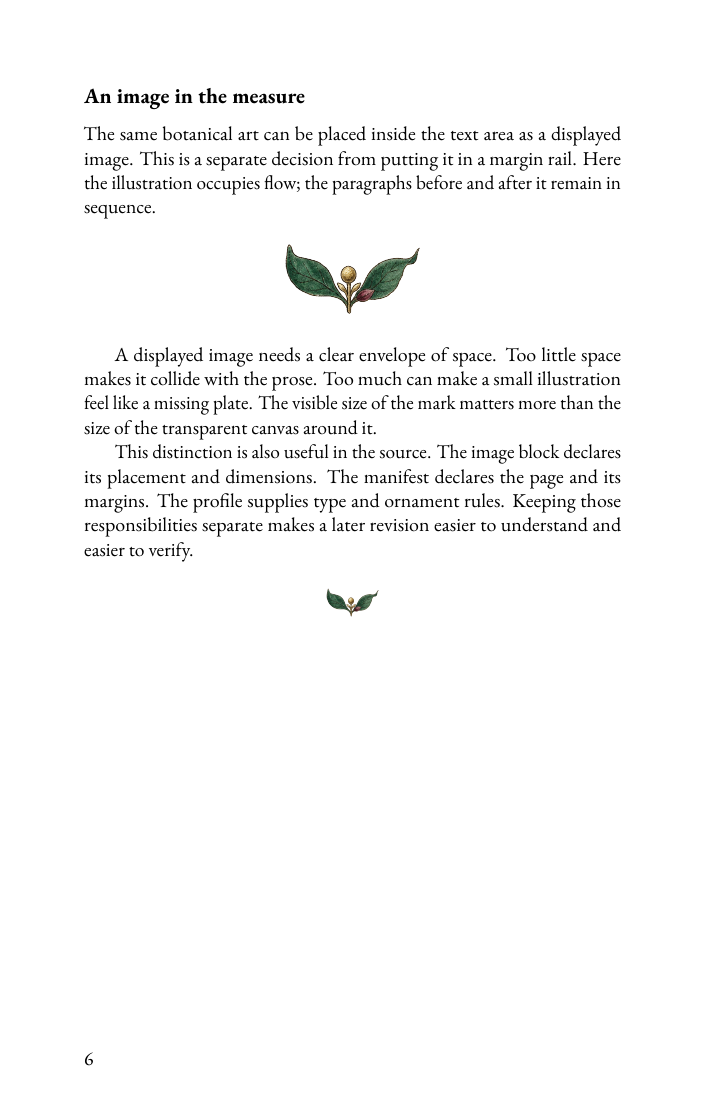
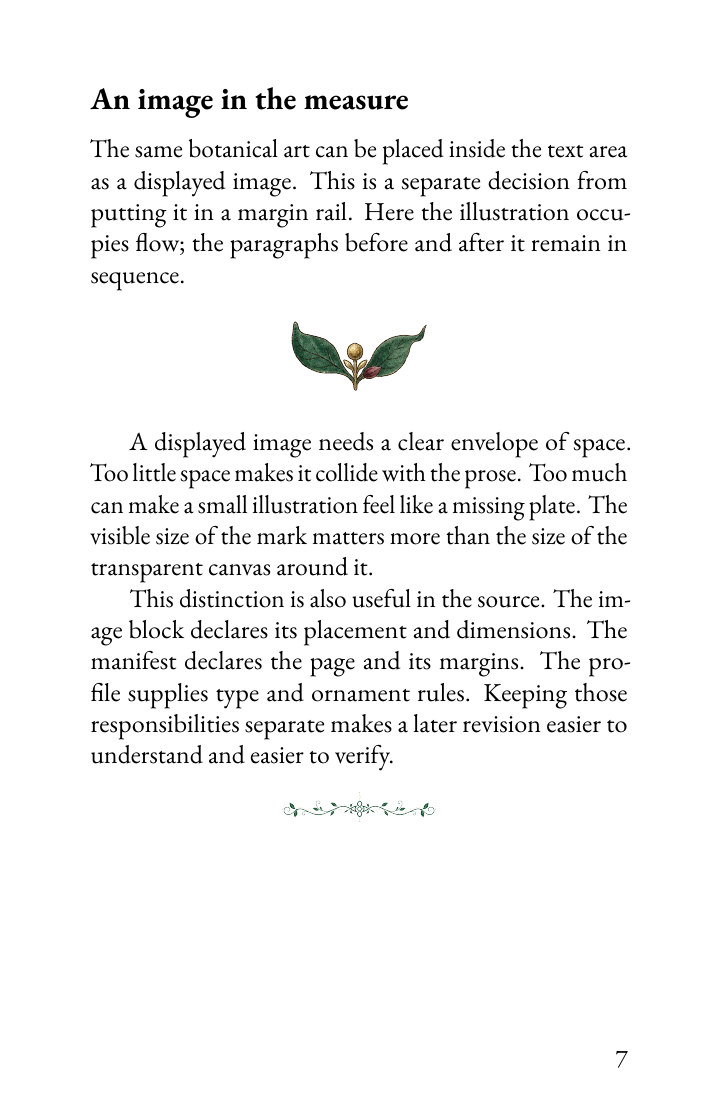
Expand the illuminated example with larger type and book apparatus

Changed region(s): [[0.1236, 0.0618, 0.8961, 0.7418], [0.5871, 0.7109, 0.618, 0.7418]]

diff --git a/examples/illuminated-book/verify.py b/examples/illuminated-book/verify.py
@@ -1,10 +1,15 @@
 #!/usr/bin/env python3
-"""Check the rendered example's evidence, source closure and output identity."""
+"""Check the example's evidence, output identity and key page-level features."""
 from __future__ import annotations
 
 import hashlib
 import json
 from pathlib import Path
+import re
+import subprocess
+import xml.etree.ElementTree as ET
+
+EXPECTED_PAGES = 11
 
 
 def main() -> None:
@@ -18,31 +23,57 @@ def main() -> None:
     assert evidence["render_metadata"]["success"] is True
     assert evidence["validation"]["status"] == "passed"
     assert evidence["warnings"] == []
-    assert evidence["output"]["pdf_pages"] == 8
+    assert evidence["output"]["pdf_pages"] == EXPECTED_PAGES
     digest = hashlib.sha256(pdf.read_bytes()).hexdigest()
     assert evidence["output"]["pdf_sha256"] == digest
     assert boundary["target_legacy_profile_tree_mutated"] is False
     assert boundary["reads_legacy_profile_tree"] is False
     assert boundary["delivery_mode"] == "bound"
     assert boundary["delivery_duplex"] is True
-    assert boundary["delivery_illumination_marks"]["marks_inserted"] == 3
+    illumination = boundary["delivery_illumination"]
+    assert illumination["placement"] == "explicit"
+    assert len(illumination["assets"]) == 3
     assert Path(boundary["profile_package"]).resolve() == example / "profiles/illuminated-example"
+    geometry = Path(evidence["render_metadata"]["page_geometry_defaults"]).read_text()
+    assert "- 14pt" in geometry
     for path in evidence["render_metadata"]["defaults_stack"]:
         assert Path(path).resolve().is_relative_to(root)
-    for resource in evidence["resource_resolution"]["resolved_resources"]:
+    resources = evidence["resource_resolution"]["resolved_resources"]
+    for resource in resources:
         assert Path(resource["winner"]).resolve().is_relative_to(root)
+    winners = {Path(resource["winner"]).name for resource in resources}
+    assert {"orchid-rail.png", "wisteria-rail.png", "lupine-rail.png"} <= winners
     kinds = {figure["kind"] for figure in evidence["figure_inventory"]}
     assert {"image_initial", "layout_image"} <= kinds
     slots = evidence["render_metadata"]["ornaments"]["slots"]
-    assert slots["breath"]["art"] == 1 and slots["tailpiece"]["art"] == 1
+    assert set(slots) == {"whisper", "breath", "hinge", "tailpiece"}
+    assert all(slot["art"] == 1 for slot in slots.values())
     preflight = evidence["output"]["bindery_preflight"]
     assert preflight["fonts"]["all_embedded"] is True
     assert preflight["safe_area_guide"]["fit_warnings"] == []
     text = (output / "illuminated-book.txt").read_text()
     for marker in ("of-image", "of-initial", "OFOuterRail", "OFOrnament"):
         assert marker not in text, f"Source directive leaked: {marker}"
-    print(json.dumps({"status": "verified", "pages": 8, "sha256": digest,
-                      "warnings": evidence["warnings"],
+    pages = [re.sub(r"\s+", " ", page).strip() for page in text.split("\f") if page.strip()]
+    assert len(pages) == EXPECTED_PAGES
+    assert "Contents" in pages[2]
+    for heading in ("Four kinds of ornament", "Glossary"):
+        assert heading in pages[2]
+    assert pages[8].startswith("Four kinds of ornament")
+    assert pages[10].startswith("Glossary")
+    # Real footnotes are in the foot area, not merely mentioned in body prose.
+    bbox = subprocess.check_output(["pdftotext", "-bbox", str(pdf), "-"], text=True)
+    xml = ET.fromstring(bbox)
+    page_nodes = [node for node in xml.iter() if node.tag.endswith("}page")]
+    for page_index, word in ((3, "means"), (4, "Odd"), (8, "Definitions:")):
+        page = page_nodes[page_index]
+        height = float(page.attrib["height"])
+        assert any(word in (node.text or "") and float(node.attrib["yMin"]) > height * 0.8
+                   for node in page.iter() if node.tag.endswith("}word")), (page_index + 1, word)
+    print(json.dumps({"status": "verified", "pages": EXPECTED_PAGES,
+                      "body_font_pt": 14, "ornament_slots": sorted(slots),
+                      "rail_art_count": 3, "footnotes_at_page_foot": [4, 5, 9],
+                      "sha256": digest, "warnings": evidence["warnings"],
                       "prototype_ready": preflight["readiness"]["prototype_ready"],
                       "press_ready": preflight["readiness"]["vendor_independent_press_ready"],
                       "press_issues": preflight["readiness"]["blocking_press_ready_issues"]}, indent=2))

diff --git a/examples/illuminated-book/profiles/illuminated-example/preamble.tex b/examples/illuminated-book/profiles/illuminated-example/preamble.tex
@@ -1,0 +1,2 @@
+% Keep contents links and footnote links live without printed border boxes.
+\hypersetup{hidelinks}

diff --git a/examples/illuminated-book/book.md b/examples/illuminated-book/book.md
@@ -34,18 +34,24 @@ A page is more than a container. It is an agreement between the length of a line
 
 ```{=latex}
 \clearpage
+\tableofcontents*
+\clearpage
 ```
 
 # Chapter One: The page
 
+```{=latex}
+\OFOuterRail{assets/orchid-rail.png}
+```
+
 ```of-initial
 path: assets/initial-t.png
-width: 0.55in
+width: 0.62in
 lines: 4
 gap: 0.07in
 align: top
 ```
-he page begins with a measure. A line should carry a thought far enough to gather momentum, but not so far that the eye loses its way on the return. That judgment belongs to the relationship between type size, leading and the width of the text, rather than to any one number in isolation.
+he page begins with a measure.[^measure] A line should carry a thought far enough to gather momentum, but not so far that the eye loses its way on the return. That judgment belongs to the relationship between type size, leading and the width of the text, rather than to any one number in isolation.
 
 An illuminated initial changes the opening without replacing the paragraph. The capital is an image; the words beside it remain text. The space reserved around the image must be large enough for its frame, yet small enough that the sentence still reads as one movement.
 
@@ -62,9 +68,13 @@ The best test is ordinary reading. If the reader notices the apparatus before th
 
 # Chapter Two: The margin
 
+```{=latex}
+\OFOuterRail{assets/wisteria-rail.png}
+```
+
 The margin is not leftover space. It separates the text from the edge of the object, and it can carry a second, quieter channel of information. A note, a folio or a botanical rail can live there without narrowing every sentence into a negotiation with an illustration.
 
-In this example, a purple orchid marks the chapter opening. Its placement belongs to the delivery manifest: the outer edge changes sides when the page changes parity. The source does not need to choose a permanent left or right margin.
+In this example, a purple wisteria marks this chapter opening; the other chapters use orchid and lupine art. Its placement belongs to the delivery manifest: the outer edge changes sides when the page changes parity.[^parity] The source does not need to choose a permanent left or right margin.
 
 ::: {.breath}
 :::
@@ -83,7 +93,7 @@ Paragraphs make a second measure within the page. An indentation can mark a new 
 
 The same is true of headings. A heading belongs to the words that follow it, not to the empty space at the bottom of the preceding page. Keeping that relationship intact is a layout responsibility. It should not depend on adding blank lines until a particular proof happens to look right.
 
-::: {.breath}
+::: {.whisper}
 :::
 
 A book also has a rhythm across its openings. The reader sees a left page and a right page together. Their margins need not be identical, but their relationship should feel deliberate. The binding takes space from the inner edge; the outer edge gives the hand somewhere to rest.
@@ -119,11 +129,15 @@ This distinction is also useful in the source. The image block declares its plac
 
 # Chapter Three: The object
 
+```{=latex}
+\OFOuterRail{assets/lupine-rail.png}
+```
+
 A rendered file is not ready merely because it exists. Its pages need the right dimensions. Its fonts must be embedded. Its images must be present, and its text must remain free of working paths, source directives and other construction debris.
 
 Evidence helps make those questions repeatable. A render records its inputs, warnings, page count and output hash. These records identify what was built; they do not decide whether the typography is good. A clean report and a poor page can coexist.
 
-::: {.breath}
+::: {.hinge}
 :::
 
 That is why the final pass returns to the page itself. Look at an opening. Follow a sentence around an initial. Check the outer margins on both parities. Read the bottom line before turning the page. Notice whether an ornament has become stranded where a page break already supplies the pause.
@@ -137,15 +151,76 @@ The object is complete only when the declared structure and the visible result a
 \clearpage
 ```
 
-## Making this example
+# Four kinds of ornament
 
-This eight-page specimen is intentionally small. It demonstrates a title page, a framed image initial, a displayed image, chapter-opening illumination rails and engine-native breath and tailpiece ornaments.
+These definitions follow the engine's ornament-slot contract.[^slots] Each mark below is a live example of its named slot.
+
+**Whisper** is the lightest pause between passages: here, a fine gold double scroll.
+
+::: {.whisper}
+:::
+
+**Breath** is a stronger pause between passages: here, two green leaves and a gold bud.
+
+::: {.breath}
+:::
+
+**Hinge** is the strongest of these three pauses: here, curling vines with blossom dots. Its height and surrounding gap exceed the breath's.
+
+::: {.hinge}
+:::
+
+The engine drops these pauses at a page top or foot, where a page break already supplies the interval. A **tailpiece** instead closes a section. It may remain at the page foot; only the first structural ornament there is kept. This vine knot closes the specimen.
+
+::: {.tailpiece}
+:::
+
+```{=latex}
+\clearpage
+```
+
+# Making this example
+
+This specimen is intentionally small. It demonstrates a title page, a framed image initial, a displayed image, chapter-opening illumination rails and engine-native whisper, breath, hinge and tailpiece ornaments.
 
 The example profile inherits the neutral document spine. Its ornament slots use the public engine's page-position law: a breath does not survive at a page top or foot, where a page break already performs its work. A tailpiece is allowed to close a section.
 
-The manifest owns the half-letter page size, mirrored bound margins and outer folios. It also owns the chapter-opening rails. The companion render script isolates profile discovery so that only this repository's demonstration profile is available. It does not require a separate profile checkout.
+The manifest owns the half-letter page size, mirrored bound margins and outer folios. It also owns the illumination rail geometry; explicit source marks select the orchid, wisteria and lupine art at chapter openings. The companion render script isolates profile discovery so that only this repository's demonstration profile is available. It does not require a separate profile checkout.
 
 The accompanying asset inventory records where each decorative file came from and how it was prepared. No personal manuscript text, photographs, keepsakes or location imagery are included. The text is original to this example; it is not a quotation or a claim of public-domain status.
 
 ::: {.tailpiece}
 :::
+
+
+```{=latex}
+\clearpage
+```
+
+# Glossary
+
+**Breath.** A pause between passages, stronger than a whisper and lighter than a hinge. See *Four kinds of ornament* for a live specimen.
+
+**Folio.** The printed page number. Here it sits at the outer foot, alternating sides across an opening.
+
+**Hinge.** The strongest of the three between-passage pauses in this example. It is not a new chapter.
+
+**Illumination rail.** A reserved margin lane for decorative art. Here its geometry belongs to the delivery manifest; source marks choose one of three botanical images.
+
+**Imposition.** Arranging reading-order pages onto sheet sides for folding and binding. It is not requested for this specimen.
+
+**Measure.** The width of the prose column, considered in relation to type size and line spacing.
+
+**Register rail.** A profile-defined margin mark following a declared voice or register beside marked text. This specimen demonstrates decorative illumination, not that automatic system.
+
+**Signature.** A group of folded sheets assembled as a binding unit. Page counts and padding depend on the chosen production plan.
+
+**Tailpiece.** An ornament after a section's final block. It closes rather than interrupts.
+
+**Whisper.** The lightest between-passage pause. Its height and surrounding gap are smaller than a breath's.
+
+[^measure]: Here measure means the width of the prose column, not a unit of length or the paper width.
+
+[^parity]: Odd pages use the right outer margin; even pages use the left. This follows the typeset page counter.
+
+[^slots]: Definitions: the repository's ornament-slot contract, section 1. The public engine's slot table supplies the page-top and page-foot defaults.

diff --git a/examples/illuminated-book/README.md b/examples/illuminated-book/README.md
@@ -1,6 +1,6 @@
 # The Shape of a Page
 
-An eight-page, half-letter specimen written for this repository. It demonstrates `of-initial`, `of-image`, bound illumination rails and public engine-native breath/tailpiece ornament slots. The title page is authored in the manuscript rather than generated from metadata.
+An eleven-page, half-letter specimen written for this repository, set in 14pt EB Garamond. It demonstrates a title page, table of contents, `of-initial`, `of-image`, three outer illumination designs, the four public engine-native ornament slots, three real footnotes and a glossary. The original prose and page breaks are preserved; the contents, ornament specimen and glossary add three pages to the first proof.
 
 ## Render
 
@@ -13,23 +13,33 @@ python examples/illuminated-book/verify.py
 
 The helper runs `python -m cli manifest` using `book.yaml`. It unsets `OF_PROFILE_PATH` and supplies temporary `HOME`, `XDG_CONFIG_HOME` and `XDG_CACHE_HOME` values. The temporary profile pointer contains only this example's `profiles/` directory. No external profile repository is needed or consulted. The helper does not install tools or fetch images.
 
-The resulting `generated/illuminated-book/illuminated-book.pdf` has eight pages at 5.5 × 8.5 inches. The adjacent `.evidence.json` records success, warnings, SHA-256, page count, resolved resources and boundary assertions. `verify.py` checks these against the local PDF. Review the actual pages too.
+The resulting `generated/illuminated-book/illuminated-book.pdf` has eleven pages at 5.5 × 8.5 inches. The adjacent `.evidence.json` records success, warnings, SHA-256, page count, resolved resources and boundary assertions. `verify.py` checks these against the local PDF, confirms the contents/glossary and checks that footnote text lands at the page foot. Review the actual pages too.
 
 ## Files and ownership
 
-- `book.md` — original example text and explicit page breaks, image blocks and ornament markers. No external text source URL: this is newly written demonstration prose, not a public-domain excerpt.
-- `book.yaml` — source selection, page geometry, bound margins, outer folios and chapter-opening illumination rails. Chapter Two opens on an even page to demonstrate the left outer rail; Chapters One and Three demonstrate the right outer rail.
-- `profiles/illuminated-example/profile.yaml` — a small package extending `document-spine`, with breath and tailpiece slots consumed by the engine's `of_ornaments.lua` filter.
-- `profiles/illuminated-example/defaults.yaml` — EB Garamond/TeX Gyre font selection and paragraph defaults. Font files come from TeX Live, not this folder.
-- `profiles/illuminated-example/assets/` — two decorative botanical images borrowed from Codex 0 and a copy of the engine's existing framed T initial.
+- `book.md` — original example text, explicit page breaks, image blocks, four named ornament divs, Pandoc footnotes, a contents page and glossary. No external text source URL: this is newly written demonstration prose, not a public-domain excerpt. The authored `\tableofcontents*` follows the opening explanation; the template's automatic TOC is disabled to keep the title page first.
+- `book.yaml` — source selection, page geometry, bound margins, outer folios and explicit illumination geometry. Three source marks select orchid, wisteria and lupine art at the chapter openings; the engine owns the left/right outer placement. Chapters One and Three land on even pages, Chapter Two on an odd page.
+- `profiles/illuminated-example/profile.yaml` — a small package extending `document-spine`, with whisper, breath, hinge and tailpiece slots consumed by the engine's `of_ornaments.lua` filter.
+- `profiles/illuminated-example/defaults.yaml` — 14pt EB Garamond/TeX Gyre font selection and paragraph defaults. Font files come from TeX Live, not this folder.
+- `profiles/illuminated-example/preamble.tex` — keeps contents and footnote hyperlinks live without visible border boxes.
+- `profiles/illuminated-example/assets/` — seven decorative images borrowed from Codex 0 and a copy of the engine's existing framed T initial.
 - `assets.json` — source-relative provenance, transformations, byte sizes and source/output hashes for every image. It asserts no new license.
 - `render.py` / `verify.py` — isolated rendering and evidence checks.
 
-The leaf-and-bud image was cropped to its alpha bounds with 12 pixels of transparent padding. The orchid and T are byte-for-byte copies. Every selected image was visually reviewed: no people, keepsakes, location imagery, handwriting or personal manuscript text is included.
+The leaf-and-bud, hinge and vine-tailpiece images were cropped to their alpha bounds with 12 pixels of transparent padding. The remaining files are byte-for-byte copies. Every selected image was visually reviewed: no people, keepsakes, location imagery, handwriting or personal manuscript text is included. The gold whisper is decorative linework, not written words.
+
+## The four ornament slots
+
+The TOC-listed *Four kinds of ornament* page shows one live specimen of each slot. The definitions and boundary rules come from [`contracts/ORNAMENT_SLOTS_CONTRACT.md`](../../contracts/ORNAMENT_SLOTS_CONTRACT.md), `engine/ornaments.py` and `engine/latex/of_ornaments.tex`:
+
+- **Whisper**, **breath**, **hinge** are between-passage pauses in increasing height and surrounding gap. The engine drops them at page tops and feet.
+- **Tailpiece** closes a section after its final block. It is legal at the page foot; only the first structural ornament there is kept.
+
+Each slot has distinct Codex 0 art. They use the public engine, not the private Codex 0 composition filter.
 
 ## Limits and a current workaround
 
-- The visible orchids are **manifest-owned chapter-opening illumination**, not semantic register rails following a voice through a passage.
-- The public engine supports ornament slots without the private Codex 0 filter. Its current generic filter nevertheless errors on a slots-only profile because JSON null is treated as a rail object. This package declares an unused, empty `example-register` rail to avoid that path. There are no corresponding source divs and it draws nothing. The real visible rails remain entirely under `render.delivery`. No engine patch is included.
+- The visible botanical art is **explicit decorative illumination**, not semantic register rails following a voice through a passage. The public chapter-opener injector uses its first asset rather than rotating a list; explicit source marks choose three assets without changing engine code. `render.delivery` still owns the rail geometry, reserve space and parity.
+- The generic ornament filter currently errors on a slots-only profile because JSON null is treated as a rail object. This package declares an unused, empty `example-register` rail to avoid that path. No source div uses it, so it draws nothing. No engine patch is included.
 - Imposition is off. The output is a reading-order prototype proof: RGB images, no bleed, no claim of vendor-independent press readiness. Inspect the advisory preflight before physical production.
 - The full repository test suite still contains tests requiring non-bundled profiles/fonts and private fixtures. Run it and report the actual baseline rather than treating the example's success as a suite-wide result.

diff --git a/README.md b/README.md
@@ -4,15 +4,16 @@ Optical Foundry turns Markdown manuscripts and YAML render manifests into print-
 
 ## A small book, built from source
 
-[The Shape of a Page](examples/illuminated-book/) is an eight-page example with an illuminated initial, displayed imagery, mirrored outer-margin rails and section ornaments. Its text was written for the example; its botanical art comes from the Codex 0 decorative collection. Everything needed to render it is in this repository.
+[The Shape of a Page](examples/illuminated-book/) is an eleven-page example set in 14pt type, with an illuminated initial, displayed imagery, three botanical rail designs, four ornament slots, contents, footnotes and a glossary. Its text was written for the example; its decorative art comes from the Codex 0 collection. Everything needed to render it is in this repository.
 
 <p>
-  <img src="docs/images/illuminated-title.png" width="32%" alt="Rendered title page of The Shape of a Page, with a botanical ornament">
-  <img src="docs/images/illuminated-initial.png" width="32%" alt="Chapter opening with an image initial, a small ornament and a purple orchid in the right outer margin">
-  <img src="docs/images/illuminated-margin.png" width="32%" alt="An even page with the orchid rail mirrored to the left outer margin">
+  <img src="docs/images/illuminated-initial.png" width="48%" alt="Chapter opening with an image initial, breath ornament, left outer orchid rail and a footnote">
+  <img src="docs/images/illuminated-margin.png" width="48%" alt="Chapter opening with a right outer wisteria rail and a footnote">
 </p>
-
-![A rendered page showing an image in the text measure and a closing ornament](docs/images/illuminated-image.png)
+<p>
+  <img src="docs/images/illuminated-image.png" width="48%" alt="A displayed image in the text measure and a closing vine tailpiece">
+  <img src="docs/images/illuminated-ornaments.png" width="48%" alt="Four live, explained ornament specimens: whisper, breath, hinge and tailpiece">
+</p>
 
 ## What it does
 
@@ -29,7 +30,7 @@ Demo profiles ship here; other profiles live in a separate repository and are lo
 
 ## Requirements
 
-The example has been exercised with Python 3.13, Pandoc 3.7 and TeX Live 2025. Install:
+The example has been exercised with Python 3.12 and 3.13, Pandoc 3.7 and TeX Live 2025. Install:
 
 - Python, [uv](https://docs.astral.sh/uv/) and the Python packages shown below;
 - Pandoc;
@@ -54,7 +55,7 @@ The render script gives profile discovery a temporary home/config and unsets `OF
 
 Outputs are written under `generated/illuminated-book/`:
 
-- `illuminated-book.pdf` — eight half-letter pages;
+- `illuminated-book.pdf` — eleven half-letter pages;
 - `illuminated-book.evidence.json` — render and validation evidence;
 - `illuminated-book.bindery_preflight.json` — advisory print checks;
 - safe-area guide and overlay PDFs.
